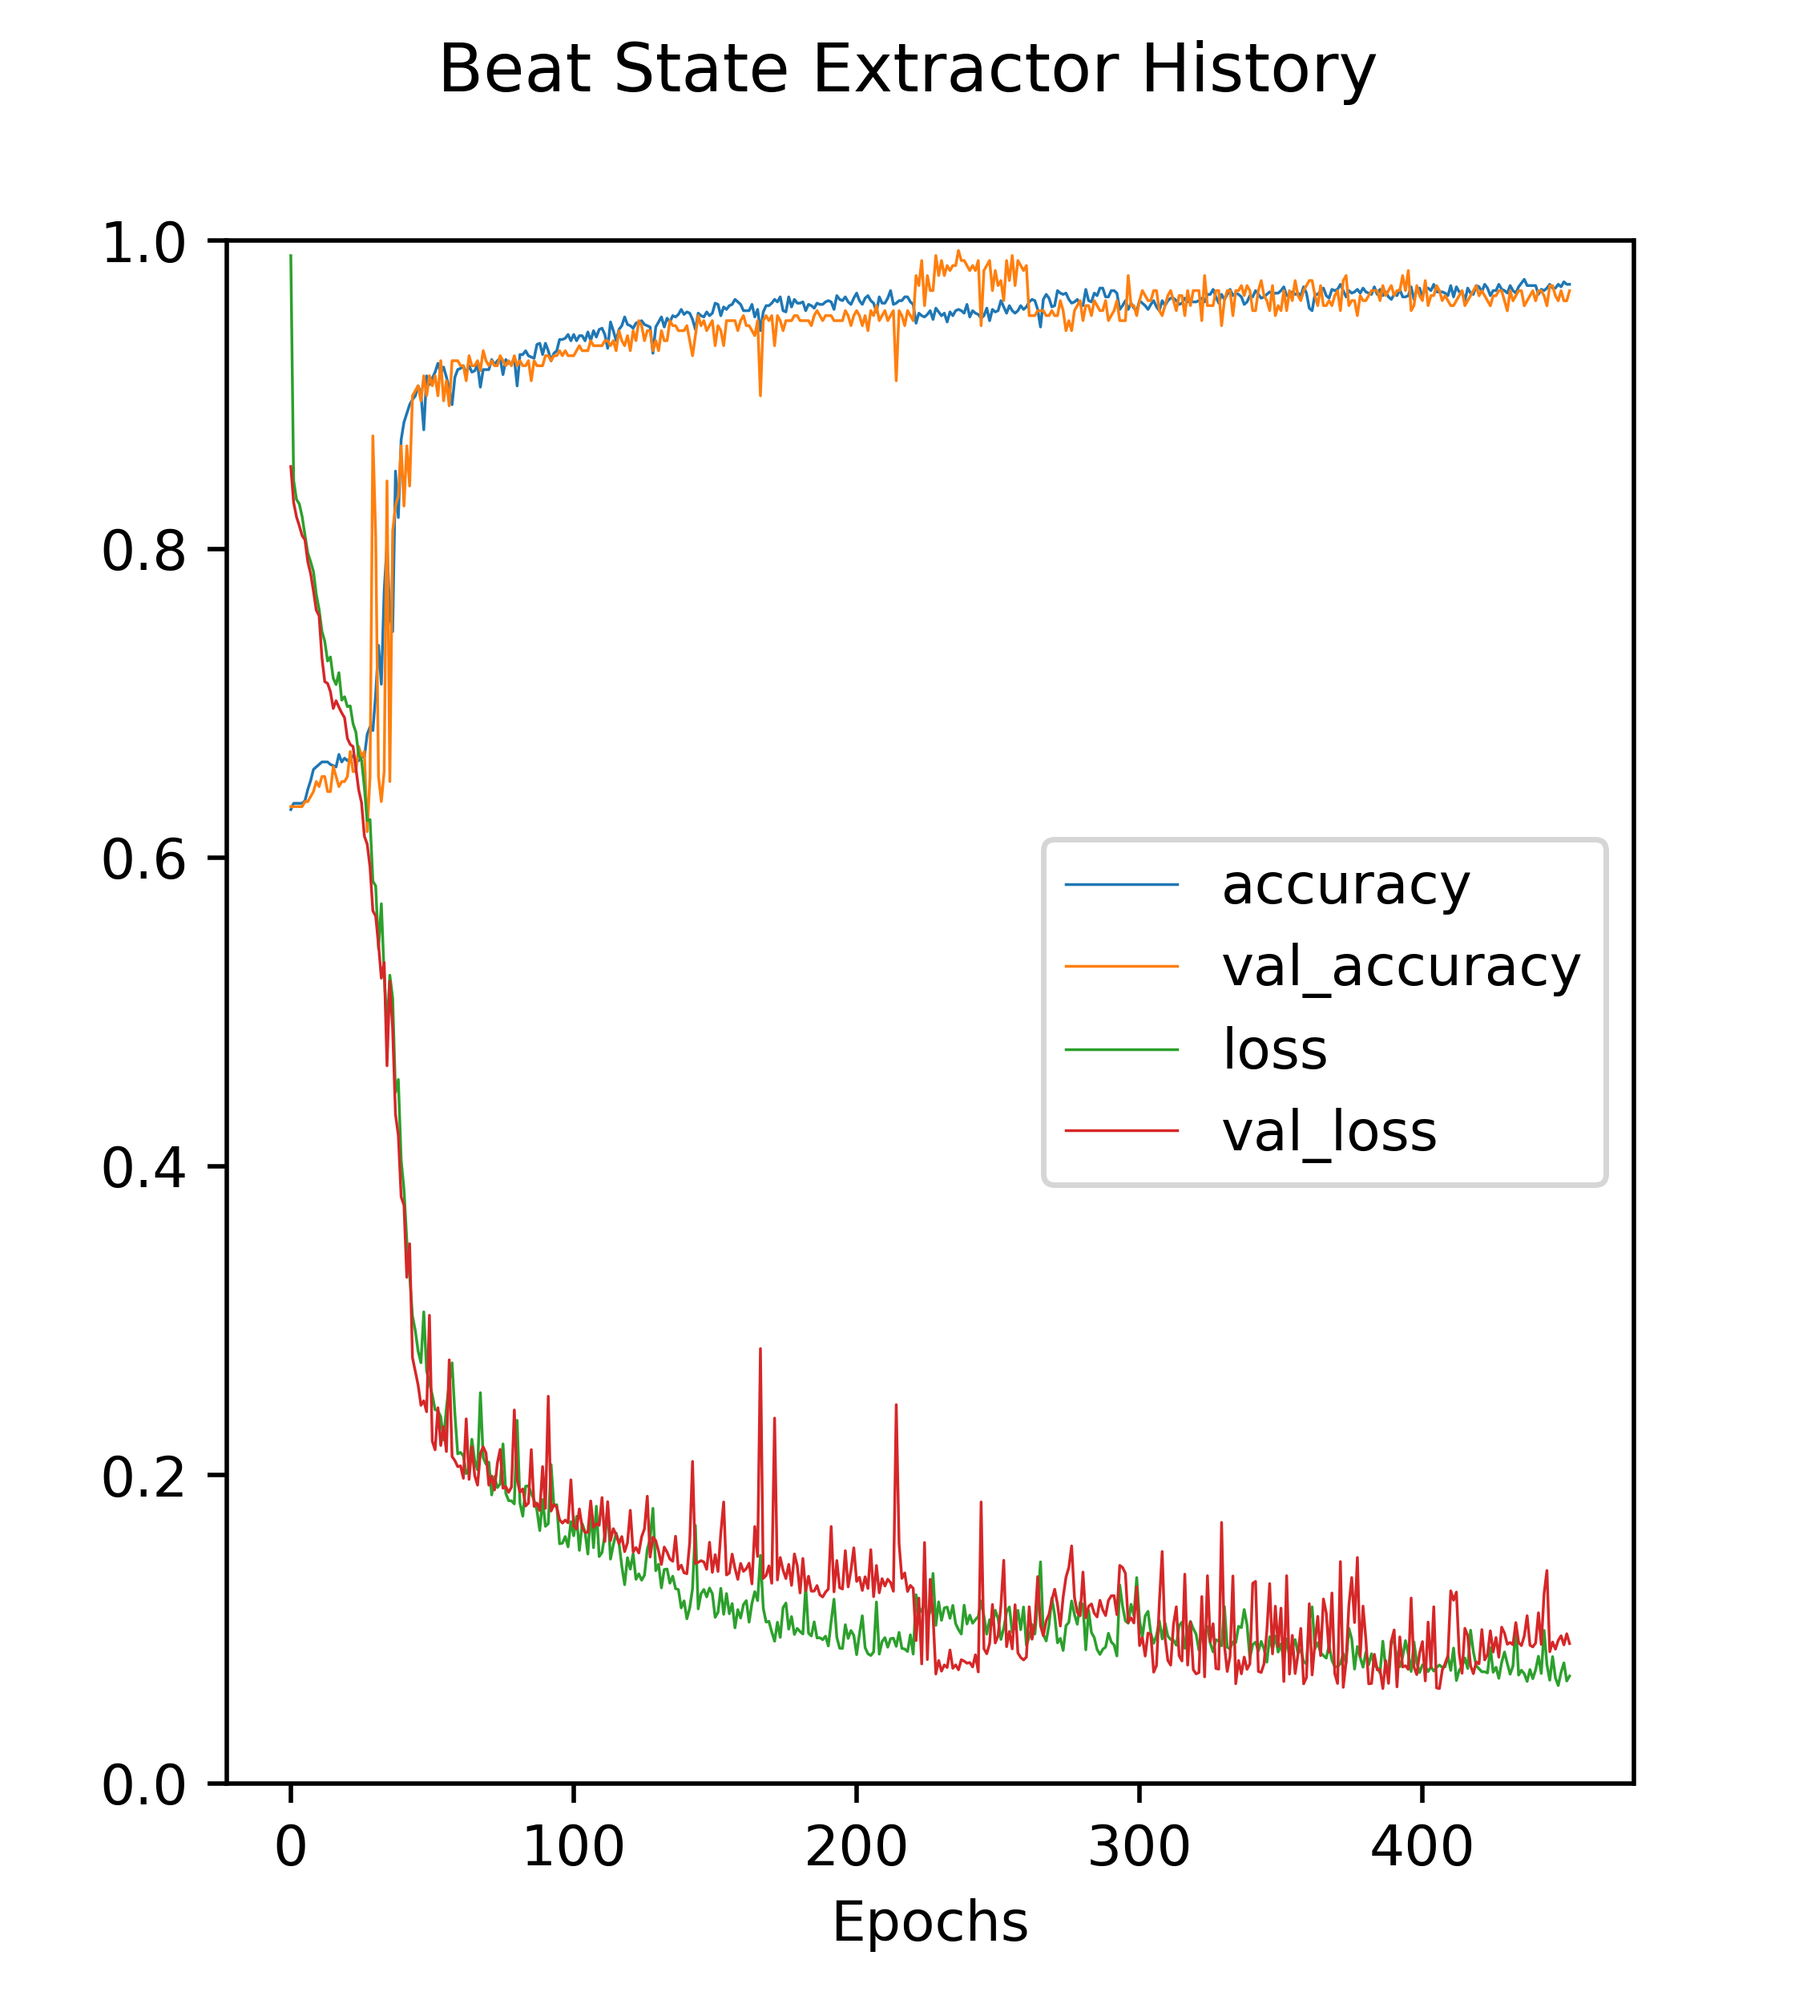
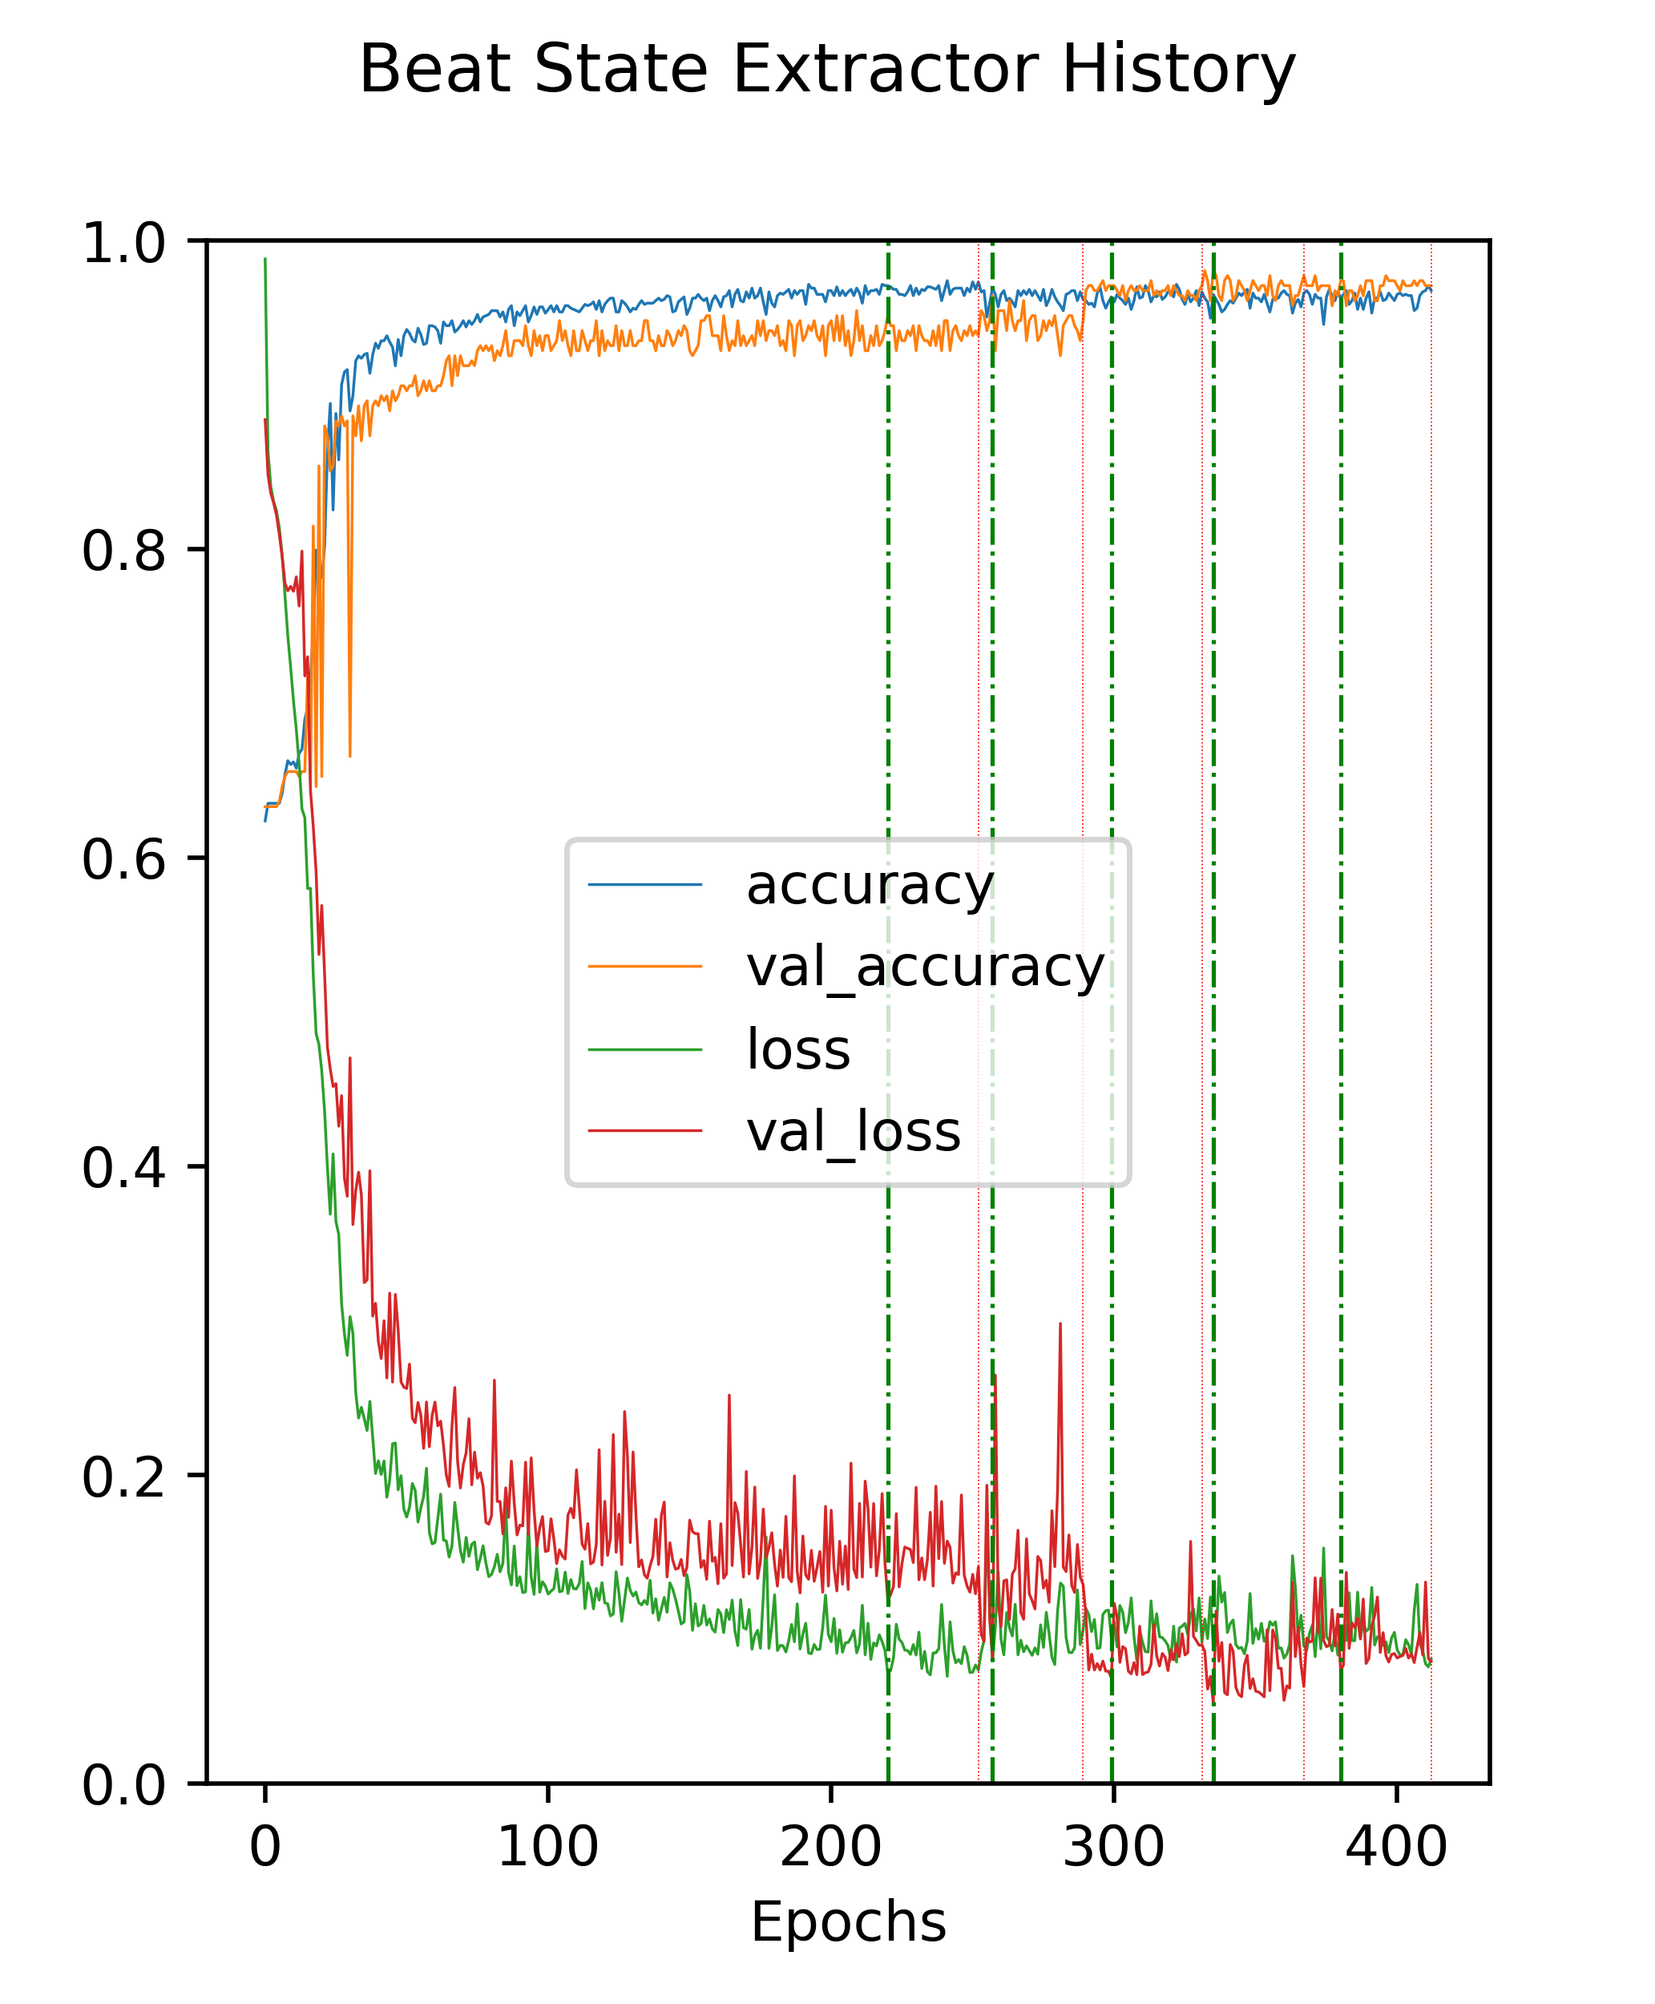
bug fix

diff --git a/extraction/beat_extraction.py b/extraction/beat_extraction.py
@@ -245,6 +245,8 @@ class BeatStateExtractor:
         val_accuracy = []
         loss = []
         val_loss = []
+        best_epochs = []
+        stopped_epochs = []
 
         for index, (train, val) in enumerate(StratifiedKFold(n_splits=n_splits,
                                                              shuffle=True).split(beat_data,
@@ -263,6 +265,12 @@ class BeatStateExtractor:
             train_beat_state = to_categorical(self.label_encoder.transform(train_beat_state))
             val_beat_state = to_categorical(self.label_encoder.transform(val_beat_state))
 
+            early_stopping = EarlyStopping(monitor="val_loss",
+                                           patience=patience,
+                                           mode="min",
+                                           restore_best_weights=True,
+                                           verbose=1 if log else 0)
+
             history = self.model.fit(train_beat_data,
                                      train_beat_state,
                                      validation_data=(val_beat_data,
@@ -270,12 +278,10 @@ class BeatStateExtractor:
                                      epochs=epochs,
                                      batch_size=batch_size,
                                      verbose=2 if log else 0,
-                                     callbacks=[EarlyStopping(monitor="val_loss",
-                                                              patience=patience,
-                                                              mode="min",
-                                                              restore_best_weights=True,
-                                                              verbose=1 if log else 0)])
+                                     callbacks=[early_stopping])
 
+            best_epochs.append(early_stopping.best_epoch + len(accuracy))
+            stopped_epochs.append(early_stopping.stopped_epoch + len(accuracy))
             accuracy += history.history['accuracy']
             val_accuracy += history.history['val_accuracy']
             loss += history.history['loss']
@@ -285,7 +291,9 @@ class BeatStateExtractor:
             "accuracy": accuracy,
             "val_accuracy": val_accuracy,
             "loss": loss,
-            "val_loss": val_loss
+            "val_loss": val_loss,
+            "best_epochs": best_epochs,
+            "stopped_epochs": stopped_epochs
         }
 
         return history
@@ -313,8 +321,18 @@ def save_beat_state_extractor_history_plot(beat_state_extractor_history: dict,
 
     history_ax = fig.add_subplot(111)
 
-    for key in beat_state_extractor_history.keys():
+    for key in ["accuracy", "val_accuracy", "loss", "val_loss"]:
         history_ax.plot(beat_state_extractor_history[key], label=key, linewidth=0.5)
+    for best_epoch in beat_state_extractor_history["best_epochs"]:
+        history_ax.axvline(best_epoch,
+                           color="green",
+                           linestyle="dashdot",
+                           linewidth=0.75)
+    for stopped_epoch in beat_state_extractor_history["stopped_epochs"]:
+        history_ax.axvline(stopped_epoch,
+                           color="red",
+                           linestyle="dotted",
+                           linewidth=0.25)
 
     history_ax.set_xlabel("Epochs")
 
@@ -328,7 +346,7 @@ def plot_beats(ax: Axes, beats: list[Beat]):
         ax.axvline(beat.start,
                    color="green" if beat.note else "red",
                    linestyle="dashdot",
-                   linewidth=0.5)
+                   linewidth=0.75)
         ax.axvline(beat.end,
                    color="green" if beat.note else "red",
                    linestyle="dotted",
